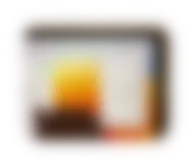
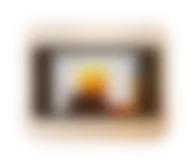
iPad Props: zoomed out so the caramel shows around the video, at rest and while it plays; stills regenerated
Claude-Session: https://claude.ai/code/session_01KWunyGjQtk3sCnGrUXUHPS

diff --git a/src/content/work/ipad-props.md b/src/content/work/ipad-props.md
@@ -16,24 +16,24 @@ cover:
     poster: images/work/ipad-props.jpg
     start: 18
     device: film
-    rest: [0.56, 0.44, 1.75]   # thumbnail: the floating properties panel, expanded
-    # [seconds, x, y, zoom]: in close on whatever the hand is tuning, easing
-    # between the settings list and the floating panel.
+    rest: [0.5, 0.5, 1.02]   # thumbnail: the whole rounded video, caramel around it
+    # [seconds, x, y, zoom]: leaning toward whatever the hand is tuning, the
+    # caramel always showing around the video.
     camera:
-      - [0, 0.34, 0.6, 1.8]        # the settings list, scrolled by hand
-      - [3.5, 0.32, 0.62, 1.85]
-      - [5, 0.55, 0.45, 1.9]       # the floating panel
-      - [9, 0.56, 0.46, 1.95]
-      - [10.5, 0.55, 0.5, 2.15]    # its colour swatches
-      - [15, 0.56, 0.5, 2.2]
-      - [16.5, 0.56, 0.44, 1.75]   # the panel, expanded
-      - [18.5, 0.56, 0.44, 1.75]
-      - [20, 0.3, 0.5, 1.9]        # dark: material sliders
-      - [27, 0.32, 0.52, 1.95]
-      - [28.5, 0.62, 0.45, 1.7]    # the panel stretched taller
-      - [31.5, 0.63, 0.46, 1.75]
-      - [33, 0.66, 0.5, 1.95]      # and resized
-      - [37.6, 0.66, 0.5, 1.95]
+      - [0, 0.420, 0.550, 1.24]        # the settings list, scrolled by hand
+      - [3.5, 0.410, 0.560, 1.25]
+      - [5, 0.525, 0.475, 1.27]       # the floating panel
+      - [9, 0.530, 0.480, 1.28]
+      - [10.5, 0.525, 0.500, 1.34]    # its colour swatches
+      - [15, 0.530, 0.500, 1.36]
+      - [16.5, 0.530, 0.470, 1.23]   # the panel, expanded
+      - [18.5, 0.530, 0.470, 1.23]
+      - [20, 0.400, 0.500, 1.27]        # dark: material sliders
+      - [27, 0.410, 0.510, 1.28]
+      - [28.5, 0.560, 0.475, 1.21]    # the panel stretched taller
+      - [31.5, 0.565, 0.480, 1.23]
+      - [33, 0.580, 0.500, 1.28]      # and resized
+      - [37.6, 0.580, 0.500, 1.28]
 ---
 
 Placeholder case study.
